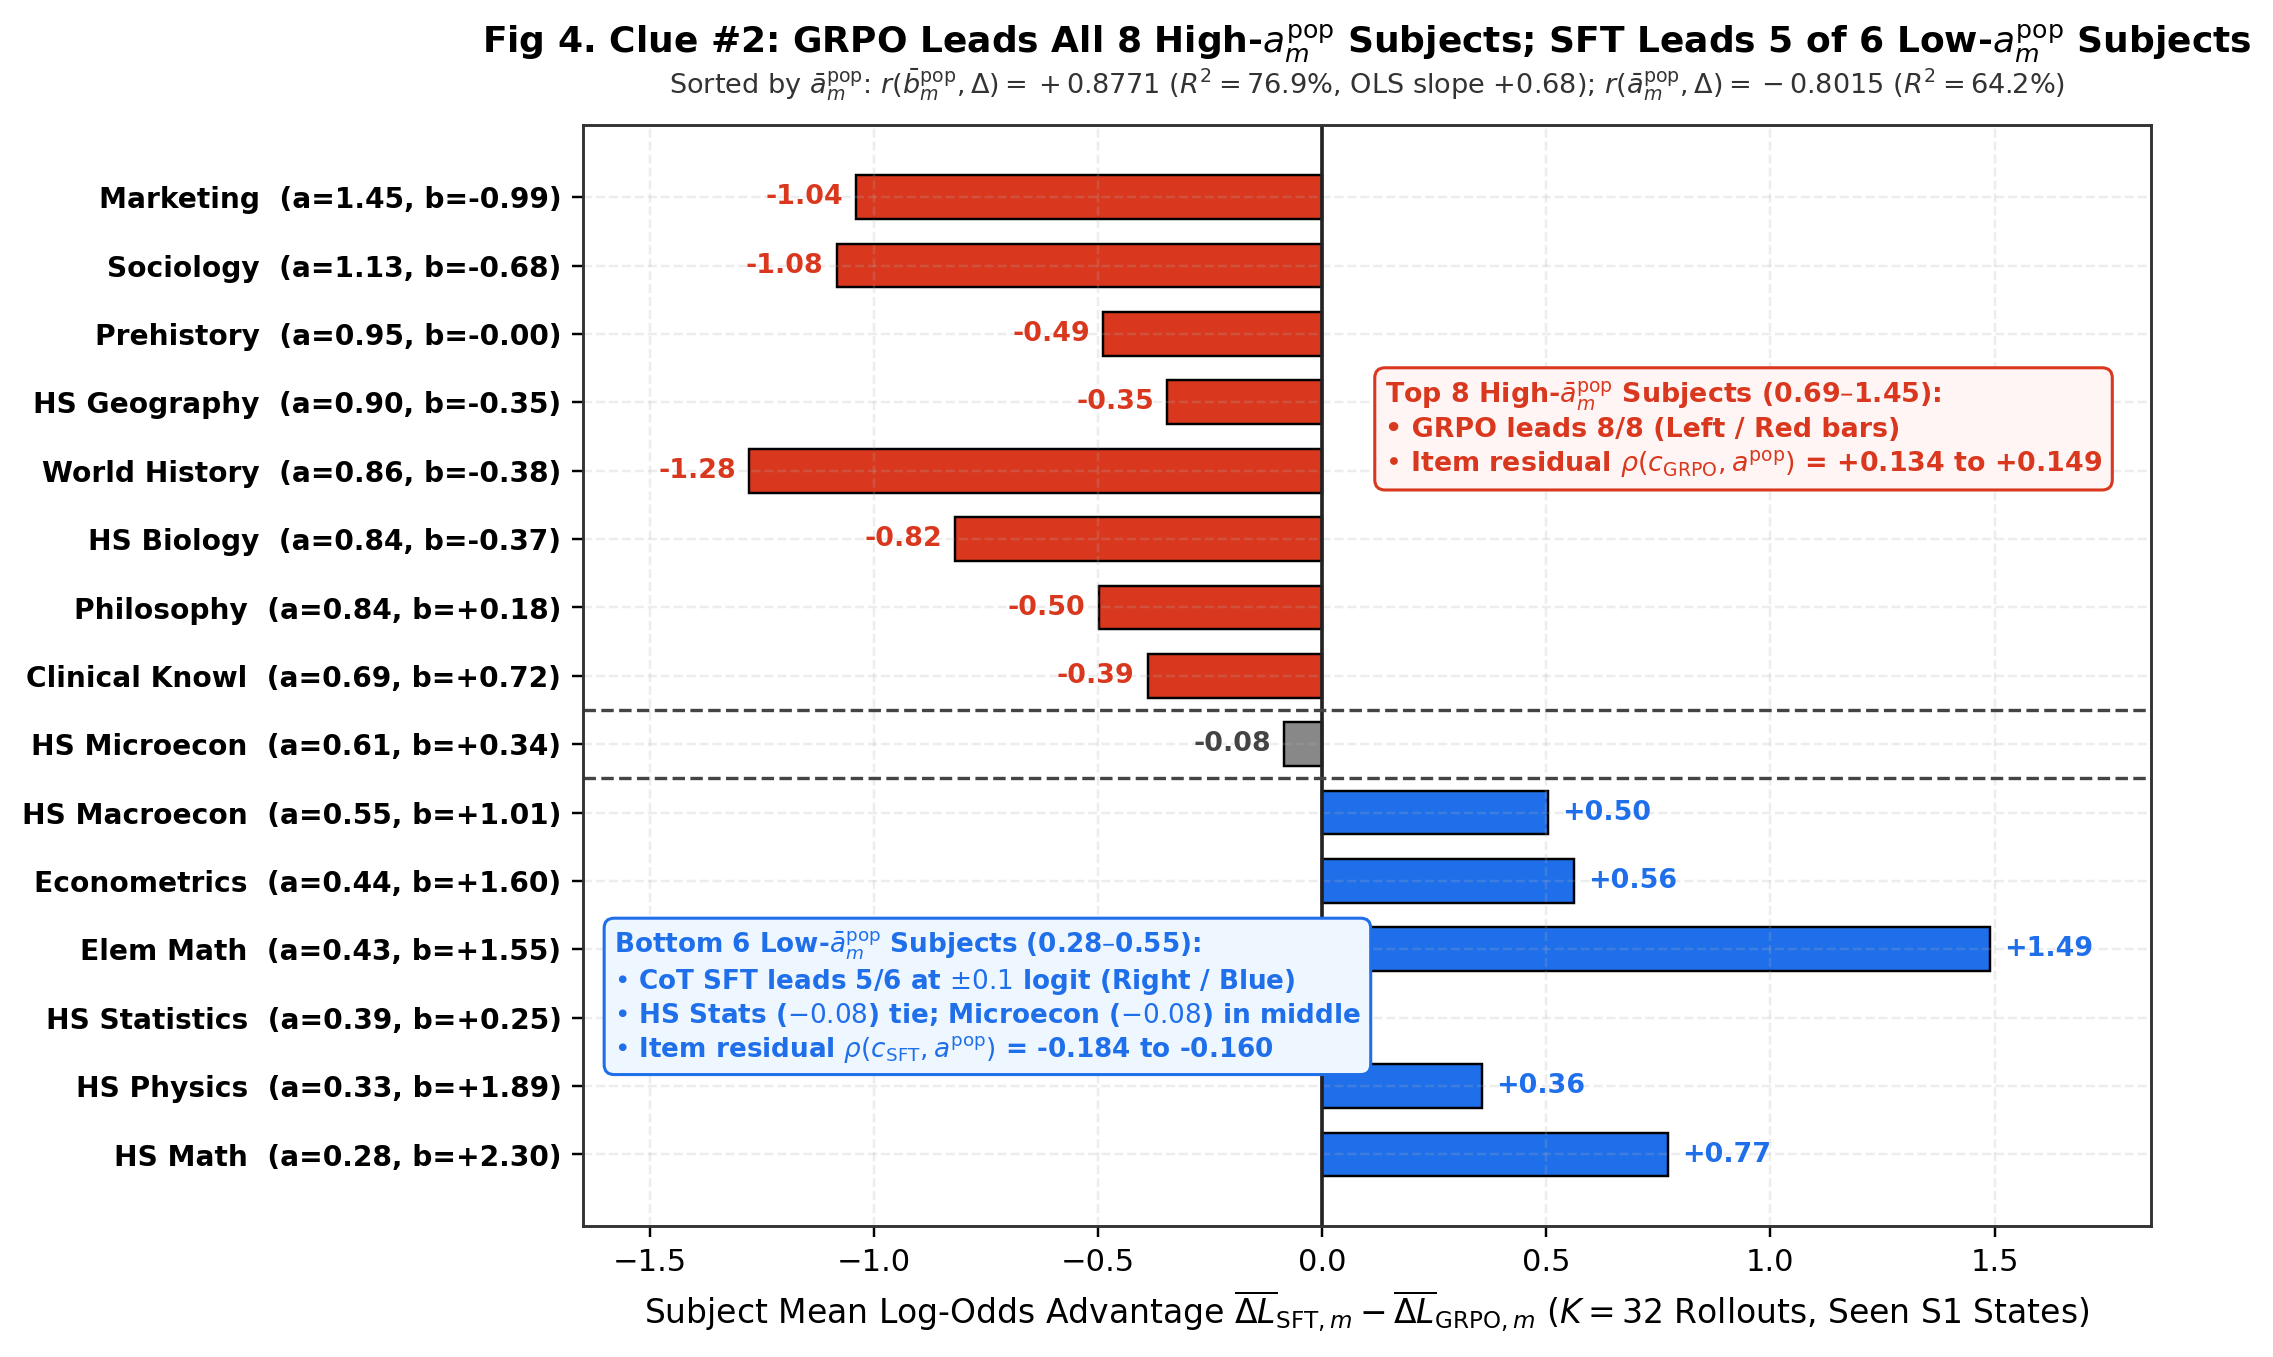
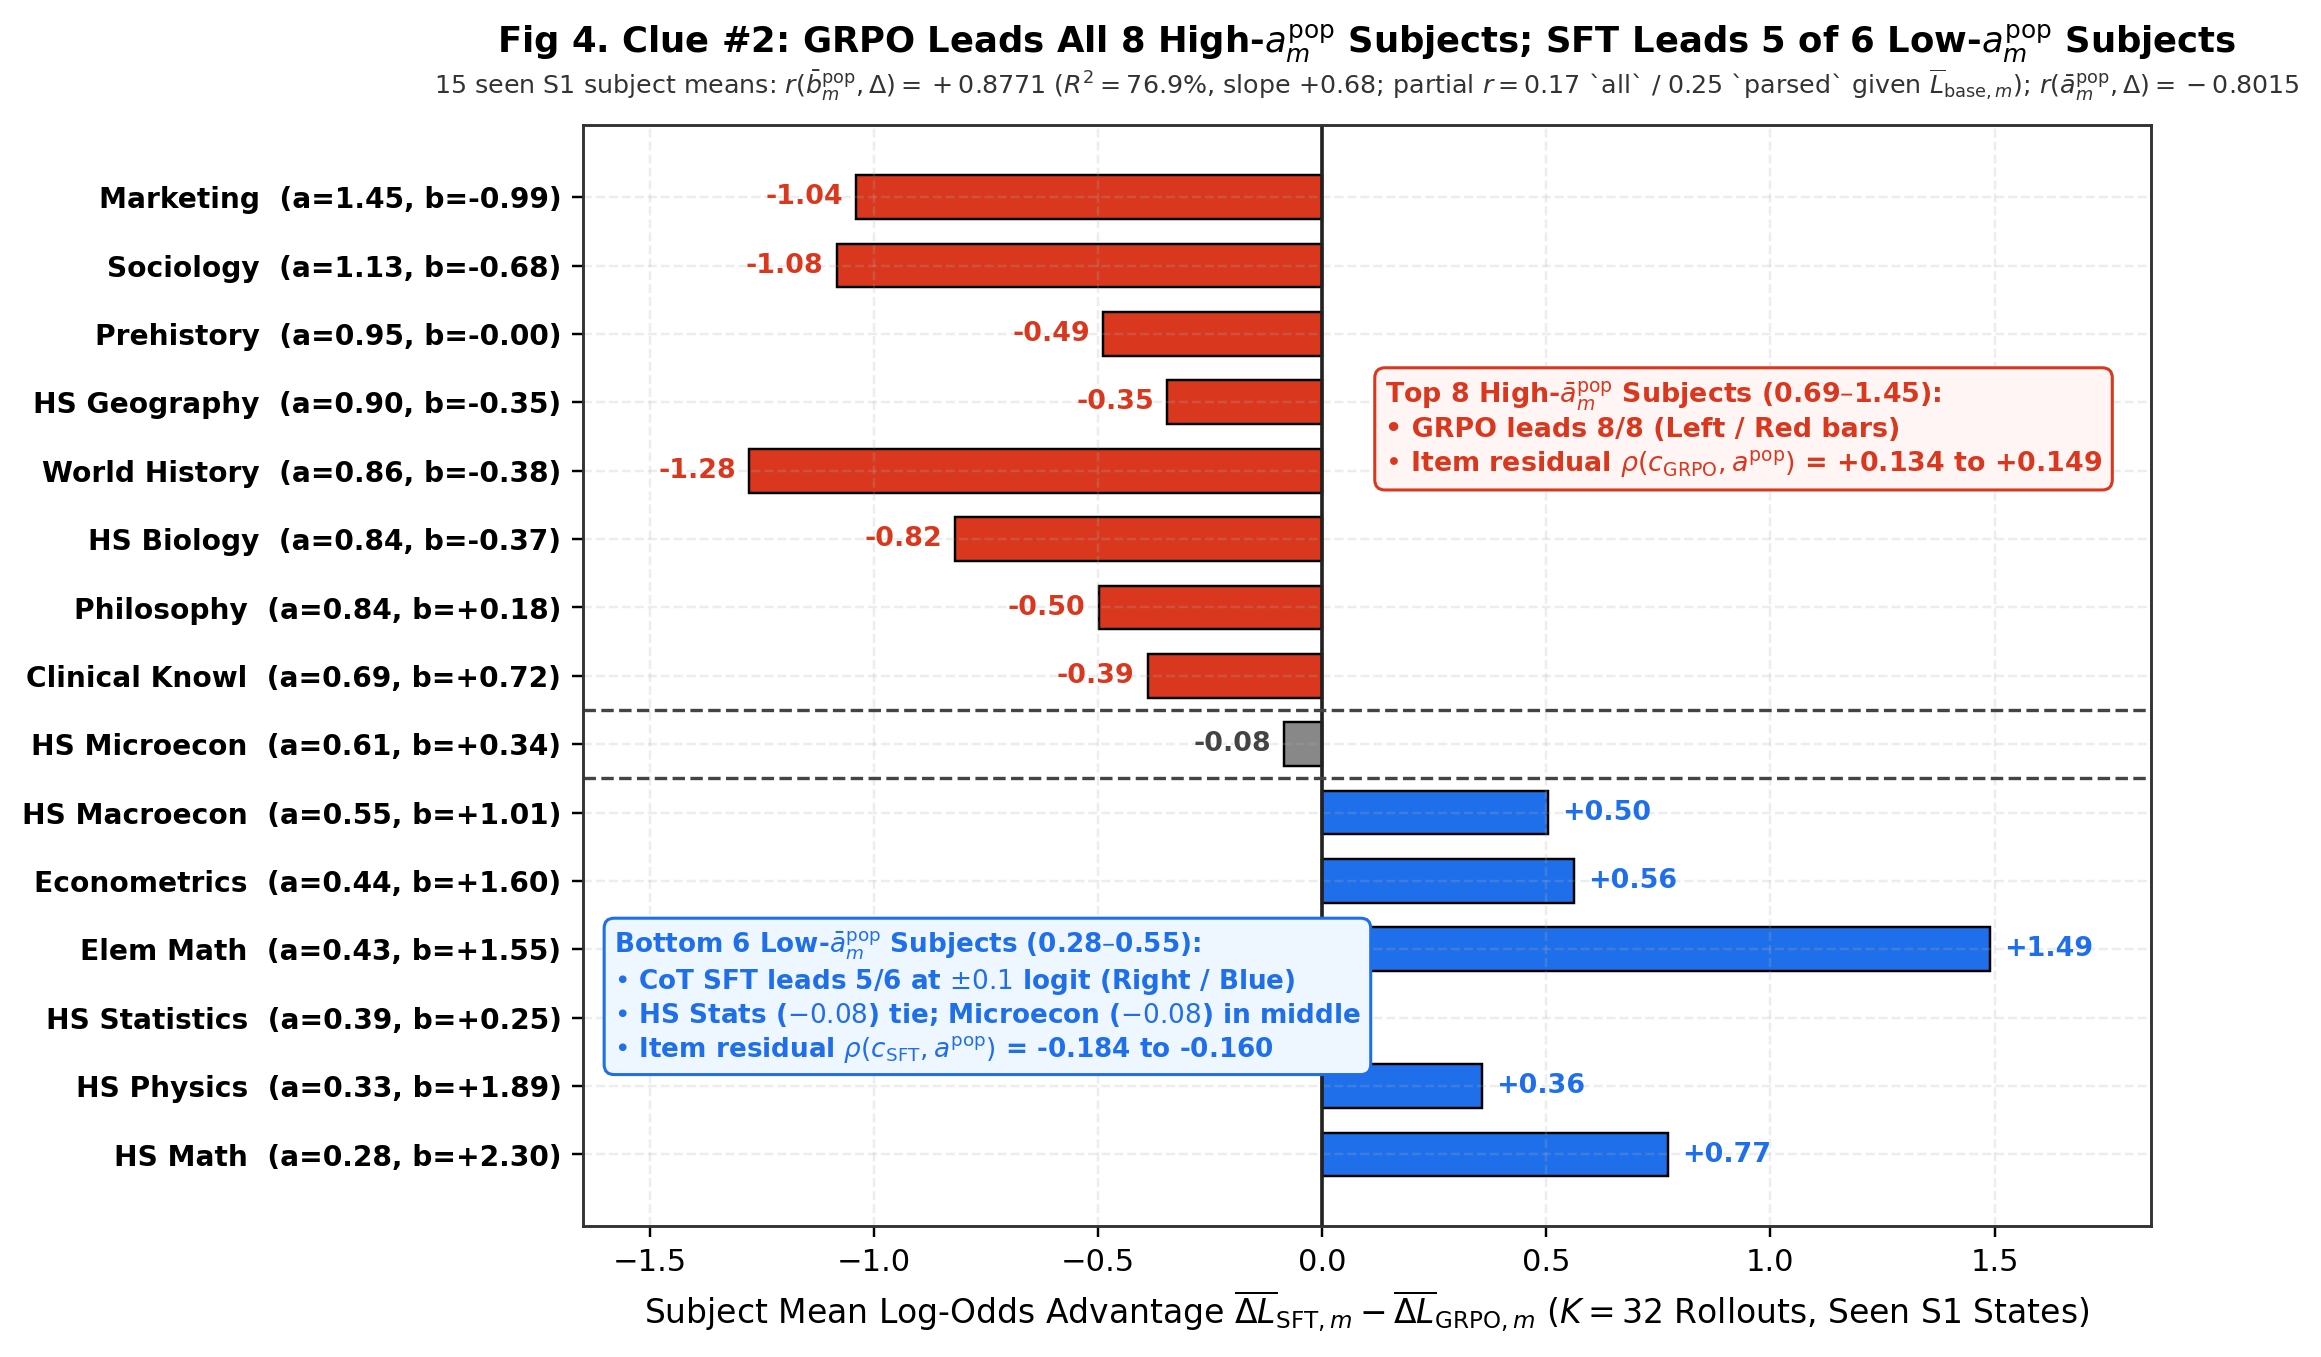
Refine Fig04 and Fig10 subtitles/text in OCT26-SLIDE-PLAN.md per CC-bot precision notes

diff --git a/gemini/make_oct26_figures.py b/gemini/make_oct26_figures.py
@@ -323,9 +323,8 @@ ax.set_xlabel("Subject Mean Log-Odds Advantage $\\overline{\\Delta L}_{\\mathrm{
 set_title_and_subtitle(
     ax,
     "Fig 4. Clue #2: GRPO Leads All 8 High-$a_m^{\\mathrm{pop}}$ Subjects; SFT Leads 5 of 6 Low-$a_m^{\\mathrm{pop}}$ Subjects",
-    f"Sorted by $\\bar{{a}}_m^{{\\mathrm{{pop}}}}$: $r(\\bar{{b}}_m^{{\\mathrm{{pop}}}}, \\Delta) = {r_b:+.4f}$ ($R^2 = {r_b**2*100:.1f}\\%$, OLS slope ${mb:+.2f}$); "
-    f"$r(\\bar{{a}}_m^{{\\mathrm{{pop}}}}, \\Delta) = {r_a:+.4f}$ ($R^2 = {r_a**2*100:.1f}\\%$)",
-    title_size=11.8
+    f"15 seen S1 subject means: $r(\\bar{{b}}_m^{{\\mathrm{{pop}}}}, \\Delta) = {r_b:+.4f}$ ($R^2 = {r_b**2*100:.1f}\\%$, slope ${mb:+.2f}$; partial $r = 0.17$ `all` / $0.25$ `parsed` given $\\overline{{L}}_{{\\mathrm{{base}},m}}$); $r(\\bar{{a}}_m^{{\\mathrm{{pop}}}}, \\Delta) = {r_a:+.4f}$",
+    title_size=11.6, sub_size=8.3
 )
 
 # Place red box in the completely empty top-right quadrant (x > 0.12, y in [8..13])
@@ -671,9 +670,9 @@ ax.set_xlabel("RL Training Update (`Q1` `grpo` Arm, $G = 5$ Rollouts per Prompt)
 ax.set_ylabel("Prompts with Zero Reward Variance `zero_adv_share` (%)", fontsize=11)
 set_title_and_subtitle(
     ax,
-    "Fig 10. Why $G = 5$ GRPO Stalls After Update 83: 63.1% of Prompts Produce Zero Gradient",
-    "Only $G=5$ `grpo` has `zero_adv_share`; the $G=1$ critics (`ctt, pop0, pop1`) have nonzero $r - \\hat{p}_j$ and higher concentration (`stable_12 = 0.866–0.942`, Table 3)",
-    title_size=11.6, sub_size=8.3
+    "Fig 10. In $G = 5$ GRPO, Zero-Advantage Prompts Rise to 63.1% Coinciding with the Post-u83 Plateau",
+    "Only $G=5$ `grpo` has `zero_adv_share`; $G=1$ critics (`ctt, pop0, pop1`) have no zero-advantage groups yet also plateau as they concentrate (`stable_12 = 0.866–0.942`)",
+    title_size=11.3, sub_size=8.2
 )
 ax.legend(loc="lower right", frameon=True, fontsize=8.6)
 save_fig(fig, "Fig10_grpo_zero_advantage_starvation")

diff --git a/gemini/OCT26-SLIDE-PLAN.md b/gemini/OCT26-SLIDE-PLAN.md
@@ -22,7 +22,7 @@
 | **`Fig07`** | **Single Plot** (`Fig07_s1_readout_crossover.png`) | **Act III — The Multi-Draw Readout Crossover (`S1`)**: Across `Mean@16 -> Maj@16 -> Maj@16* -> Pass@16`, GRPO leads `Mean@16` (`0.479 vs. 0.439`) via low entropy ($H = 0.281$), but **SFT overtakes on `Maj@16`** (`0.504 vs. 0.481` in `2/3` seeds; `0.555* vs. 0.490*` tie-correct) and preserves `Pass@16` (`0.966`, `+0.036` over Base `0.930`; GRPO drops to `0.656`). | `S1/stats.csv`<br>`S1/rewrite1_parsed.csv` | Slide 9 (Act III) |
 | **`Fig08`** + **`Table 2`** | **Single Plot + Table** (`Fig08_19states_entropy_vs_majority.png`) | **All 19 States in the $(H_s, \text{Maj@16})$ Plane + Table of Readouts & Person Fit $l_z$**: All 15 `Base -> RL` runs cluster at low entropy with `Maj@16` in `0.467–0.496`, while all 3 `SFT` runs sit at high entropy ($H_s = 0.943$) with `Maj@16 = 0.504 / 0.555*`. **Table 2** compares $l_z^{(1)}$ (`Q2a`) vs. $l_z^{(32)}$ (`Q2g`) across all families. | `S1/stats.csv`<br>`Q1/stats.csv`<br>`Q2a/personfit.csv`<br>`Q2g/s1/personfit.csv`<br>`Q2g/q1/personfit.csv` | Slide 10 (Act III) |
 | **`Fig09`** | **Single Plot** (`Fig09_q1_rl_trajectories.png`) | **Act IV — `Unit Q1` RL Trajectories (Seed 0) & 12-Run Convergence Band**: In Seed 0, `83.7%–94.5%` of total gain finishes by update 83, and all 4 arms (`grpo, ctt, pop0, pop1`) land in a **`0.63 percentage point` band (`0.4685–0.4748`)** at update 333 (`12 Q1 runs: 0.459–0.480`). | `Q1/trajectory.csv`<br>`Q1/stats.csv`<br>`S1/stats.csv` | Slide 11 (Act IV) |
-| **`Fig10`** + **`Table 3`** | **Single Plot + Table** (`Fig10_grpo_zero_advantage_starvation.png`) | **Why $G=5$ GRPO Stalls After Update 83 (`zero_adv_share = 63.1%`) + $G=5$ vs. $G=1$ Critic Table**: Plots `zero_adv_share` rising from `43.8%` (`W1` raw) to `63.1%` post-u83 (`84%–91%` peak). **Table 3** contrasts $G=5$ `grpo` against $G=1$ critics (`ctt, pop0, pop1`: nonzero $r - \hat{p}_j$, fixed $L_0 = 78.98$, `stable_12 = 0.866–0.942`). | `Q1/traces/grpo_0..2.csv`<br>`W1/summary.json`<br>`Q1/stats.csv` | Slide 12 (Act IV) |
+| **`Fig10`** + **`Table 3`** | **Single Plot + Table** (`Fig10_grpo_zero_advantage_starvation.png`) | **In $G=5$ GRPO, `zero_adv_share = 63.1%` Coincides with the Post-u83 Plateau + $G=5$ vs. $G=1$ Critic Table**: Plots `zero_adv_share` rising from `43.8%` (`W1` raw) to `63.1%` post-u83 (`84%–91%` peak), coinciding with the plateau. **Table 3** contrasts $G=5$ `grpo` against $G=1$ critics (`ctt, pop0, pop1`: no zero-advantage groups, fixed $L_0 = 78.98$, `stable_12 = 0.866–0.942`, which also plateau). | `Q1/traces/grpo_0..2.csv`<br>`W1/summary.json`<br>`Q1/stats.csv` | Slide 12 (Act IV) |
 | **`Fig11`** + **`Table 4`** | **Single Plot + Table** (`Fig11_w1_pass_rate_and_zpd.png`) | **Training-Prompt Pass-Rate Distribution & Pre-Registered `Unit M1` Design**: `W1` pass-rate histogram (`51.7%` interior `2..6 of 8` vs. `48.3%` exterior) overlaid with Bernoulli variance $p_j(1-p_j)$, motivating why `Unit M1` (`M1c`) filters `SFT -> RL` by SFT's **own** pass rate $p_{\text{SFT},j} \in [0.2, 0.8]$. **Table 4** gives the 4 committed baseline groups + pre-registered `M1a / M1b / M1c` rules. | `W1/pass_rate.csv`<br>`S1/stats.csv`<br>`Q1/stats.csv`<br>`notes/units/M1.md` | Slide 13 (Act IV) |
 
 ---
@@ -70,8 +70,8 @@
   - **3-Second Visual Takeaway**: Ordering the 15 subjects by $\bar{a}_m^{\text{pop}}$ (matching `Fig03`):
     - **Top 8 High-$\bar{a}_m^{\text{pop}}$ (`0.69–1.45`) Factual Subjects**: Every bar goes Left (**GRPO leads `8/8`**, with $r(\bar{a}_m^{\text{pop}}, \overline{\Delta L}_{\text{GRPO},m}) = +0.7464$; unseen `Q1` arms $r = 0.64\text{–}0.72$).
     - **Bottom 6 Low-$\bar{a}_m^{\text{pop}}$ (`0.28–0.55`) Quantitative Subjects**: 5 of 6 bars go Right (**CoT SFT leads `5/6`** at a post-hoc $\pm 0.1$ logit threshold: *Elem Math `+1.49` logits, HS Math `+0.77`*, while *HS Statistics `-0.08`* is a tie and *HS Microeconomics `-0.08`, $\bar{a}_m = 0.61$* sits between the two groups).
-    - **Mystery Solved**: Across the 15 subject means (`S1` seen states), $\bar{b}_m^{\text{pop}}$ explains **$R^2 = 76.9\%$ ($r = +0.8771$, OLS slope $+0.68$)** and $\bar{a}_m^{\text{pop}}$ explains **$R^2 = 64.2\%$ ($r = -0.8015$)** of $\overline{\Delta L}_{\text{SFT},m} - \overline{\Delta L}_{\text{GRPO},m}$. At the item level (`Q2g/s1/flags.csv`), the Spearman correlation `A3_spearman_c_a` between the IRT residual $c_{s,j}$ and $a_j^{\text{pop}}$ is **negative for SFT ($\rho = -0.184\text{ to }-0.160$)** and **positive for GRPO ($\rho = +0.134\text{ to }+0.149$)**—so 2PL $\hat{\theta}$ downweights SFT's math gains and amplifies GRPO's factual gains!
-  - **Hook to Slide 7**: *Wait—is that subject pattern caused by population difficulty $b_j^{\text{pop}}$, or by the model's OWN initial base log-odds $L_{\text{base},j}$?*
+    - **Alignment Across 15 Seen Subject Means**: Across the 15 subject means (`S1` seen states, `Llama-3.2-1B-Instruct` on the 1,500-item MMLU bank), $\bar{b}_m^{\text{pop}}$ explains **$R^2 = 76.9\%$ ($r = +0.8771$, OLS slope $+0.68$)** and $\bar{a}_m^{\text{pop}}$ explains **$R^2 = 64.2\%$ ($r = -0.8015$)** of $\overline{\Delta L}_{\text{SFT},m} - \overline{\Delta L}_{\text{GRPO},m}$ (with partial $r = 0.17$ `all` / $0.25$ `parsed` once the model's own base log-odds $\overline{L}_{\text{base},m}$ are removed, see Slide 7). At the item level (`Q2g/s1/flags.csv`), the Spearman correlation `A3_spearman_c_a` between the IRT residual $c_{s,j}$ and $a_j^{\text{pop}}$ is **negative for SFT ($\rho = -0.184\text{ to }-0.160$)** and **positive for GRPO ($\rho = +0.134\text{ to }+0.149$)**.
+  - **Hook to Slide 7**: *Since $\bar{b}_m^{\text{pop}}$ correlates $-0.94$ with the model's own initial base log-odds $\overline{L}_{\text{base},m}$ (leaving partial $r = 0.17$), what happens at the item level against the model's OWN prior $L_{\text{base},j}$?*
 
 - **Slide 7 — Deep Dive (`T9r`, `Q2g`, `T9g`): The Confound Check & Within-Model Prior Scaling**
   - **Visual**: **[`Fig05_within_model_prior_scaling.png`](file:///D:/surrogates/gemini/figures/Fig05_within_model_prior_scaling.png)** + **Table 1**
@@ -135,9 +135,9 @@
     - **Identical Final Plateau (`Q1/stats.csv`)**: At update 333, all 4 arm means finish between **`0.4685` and `0.4748`**—a width of **`0.0063` (`0.63 percentage points`, or `1.3%` of `0.47`; 12-run range `0.459–0.480`)**!
   - **Hook to Slide 12**: *Why do all `Base -> RL` runs stall after update 83 regardless of the critic?*
 
-- **Slide 12 — Why `Base -> RL` Stalls After Update 83: Zero-Advantage Starvation (`G=5`) & Over-Concentration (`G=1`)**
+- **Slide 12 — Post-u83 RL Dynamics: Zero-Advantage Rise in $G=5$ GRPO & Concentration in $G=1$ Critics**
   - **Visual**: **[`Fig10_grpo_zero_advantage_starvation.png`](file:///D:/surrogates/gemini/figures/Fig10_grpo_zero_advantage_starvation.png)** + **Table 3**
-  - **3-Second Visual Takeaway (`Fig10`)**: In $G=5$ `grpo`, if all 5 rollouts on a prompt are wrong (`0/5`) or all 5 are right (`5/5`), reward variance is zero and the policy gradient is zero. Starting from **`43.8%` raw zero-variance prompts on Base** (`W1/summary.json`, `wasted_share_g5_raw = 0.438`, shrunk `28.0%`; `grpo` updates `0–9` mean `36.9%–43.8%`), `zero_adv_share` climbs to a **`63.1%` average after update 83 (`84.4%–90.6%` peak)**—wasting nearly two-thirds of all training updates!
+  - **3-Second Visual Takeaway (`Fig10`)**: In $G=5$ `grpo`, if all 5 rollouts on a prompt are wrong (`0/5`) or all 5 are right (`5/5`), reward variance is zero and the group-normalized advantage is zero. Starting from **`43.8%` raw zero-variance prompts on Base** (`W1/summary.json`, `wasted_share_g5_raw = 0.438`, shrunk `28.0%`; `grpo` updates `0–9` mean `36.9%–43.8%`), `zero_adv_share` climbs to a **`63.1%` average after update 83 (`84.4%–90.6%` peak)**, coinciding with the post-u83 plateau. Meanwhile, the $G=1$ critic arms (`ctt`, `pop0`, `pop1`) have no zero-advantage groups (`r - \hat{p}_j \neq 0`) yet also plateau after update 83 as they concentrate even more strongly onto a single modal answer (`stable_12 = 0.866–0.942`).
   - **Companion Table 3 ($G=5$ `grpo` vs. $G=1$ Critics Mechanism Comparison)**:
 
 | RL Training Arm (`Unit Q1`, 3 Seeds Each) | Rollouts per Prompt $G$ | Advantage Formula $A_{s,j}$ | Uses Static $a_j^{\text{pop}}$? | Post-u83 `zero_adv_share` (`Q1/traces/`) | Length Divisor | Final Answer Stability `stable_12` | Final `Mean@16` (3-Seed Mean) |
